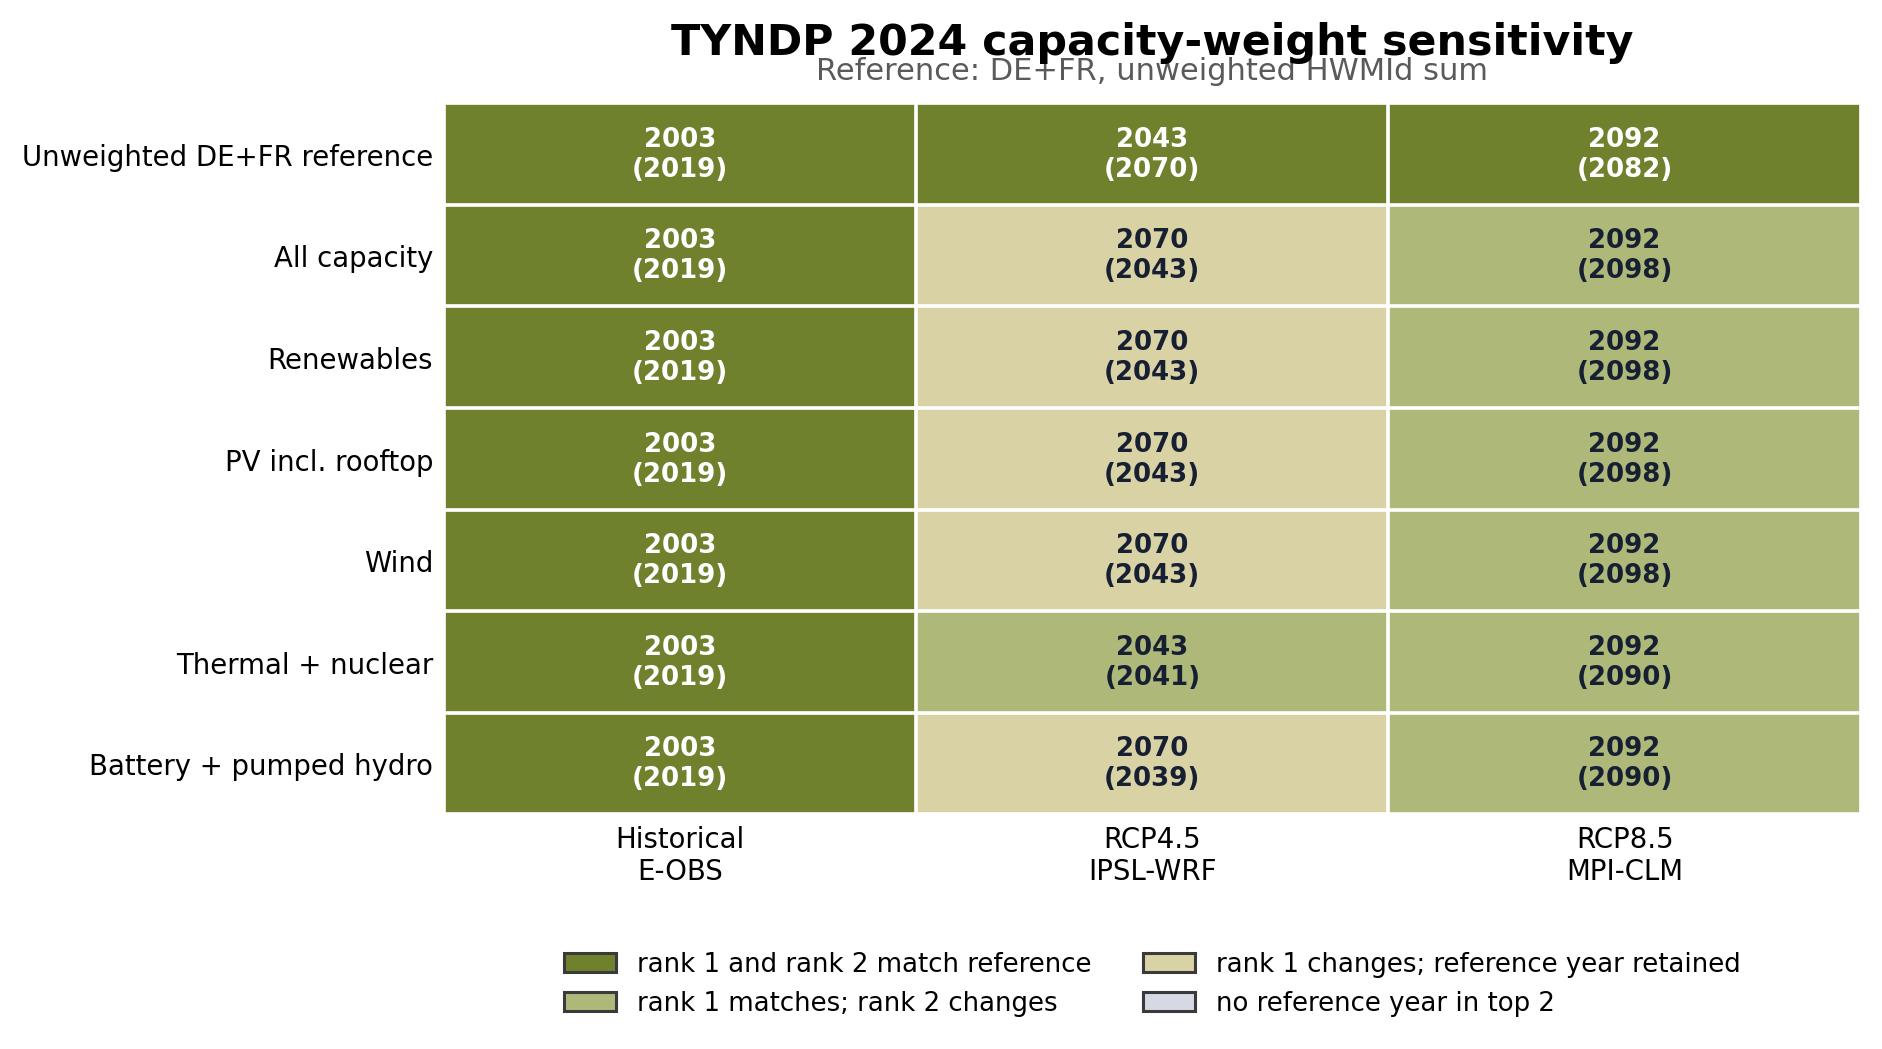
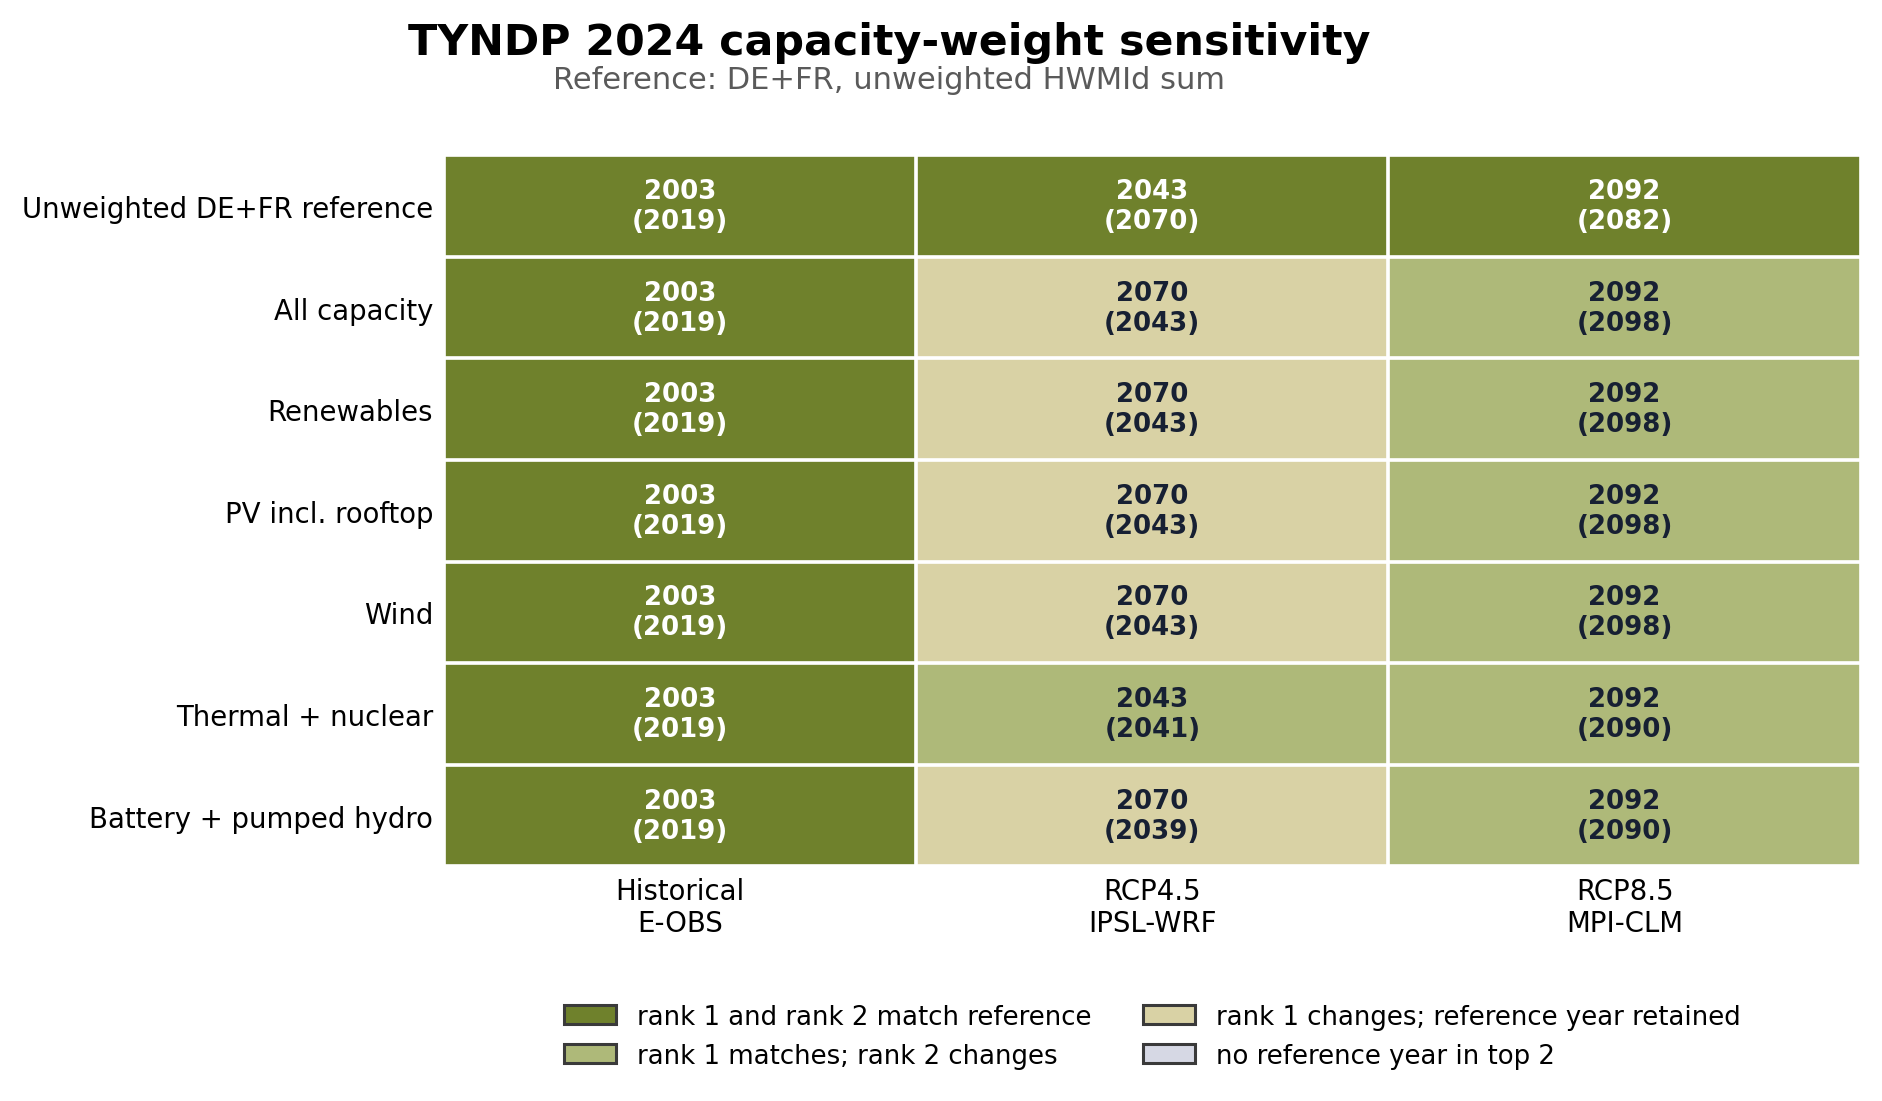
Adjust TYNDP figure title spacing

diff --git a/scripts/make_additional_paper_figures.py b/scripts/make_additional_paper_figures.py
@@ -224,14 +224,18 @@ def plot_weighting_heatmap(weighted: pd.DataFrame, primary_top10: pd.DataFrame, 
     fig_height = max(4.6, 0.5 * len(row_labels) + 1.8)
     fig, ax = plt.subplots(figsize=(9.2, fig_height))
     ax.imshow(codes, cmap=STABILITY_CMAP, norm=STABILITY_NORM, aspect="auto")
-    ax.set_title("TYNDP 2024 capacity-weight sensitivity", fontsize=14, fontweight="bold", pad=16)
-    ax.text(
+    fig.suptitle(
+        "TYNDP 2024 capacity-weight sensitivity",
+        fontsize=14,
+        fontweight="bold",
+        y=0.975,
+    )
+    fig.text(
         0.5,
-        1.025,
+        0.925,
         "Reference: DE+FR, unweighted HWMId sum",
-        transform=ax.transAxes,
         ha="center",
-        va="bottom",
+        va="center",
         fontsize=10,
         color="#5A5A5A",
     )